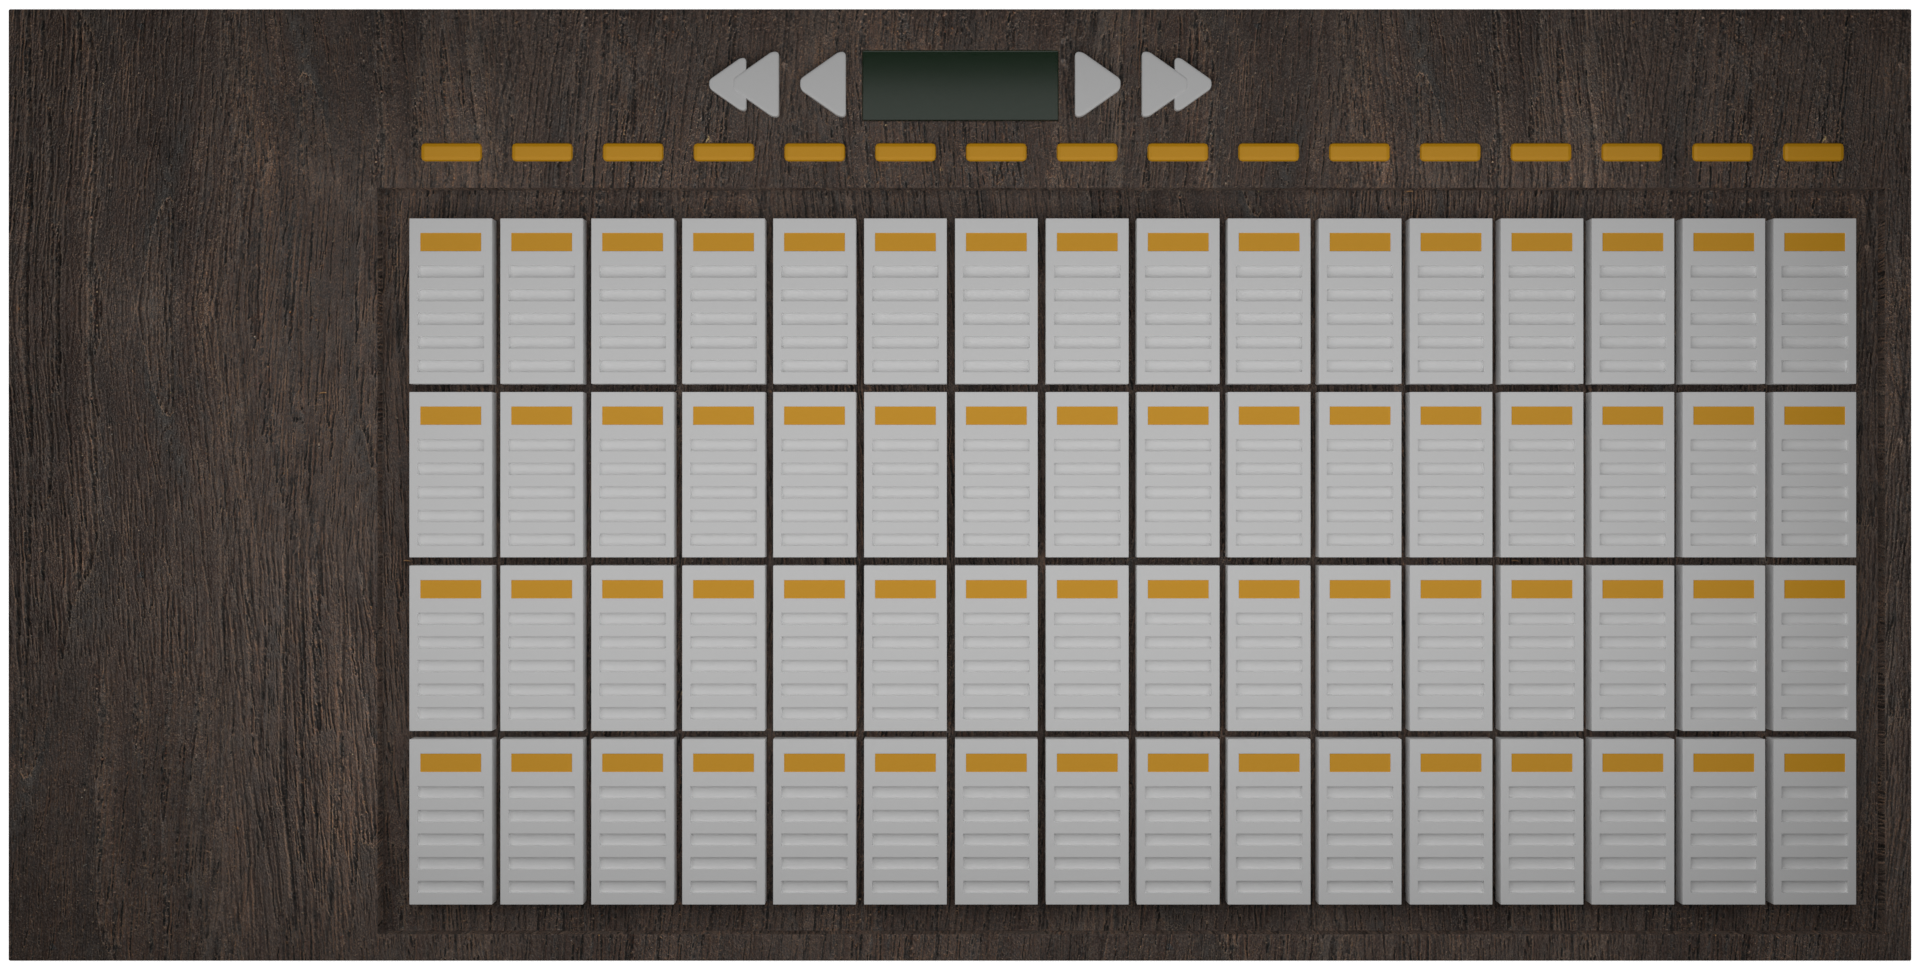
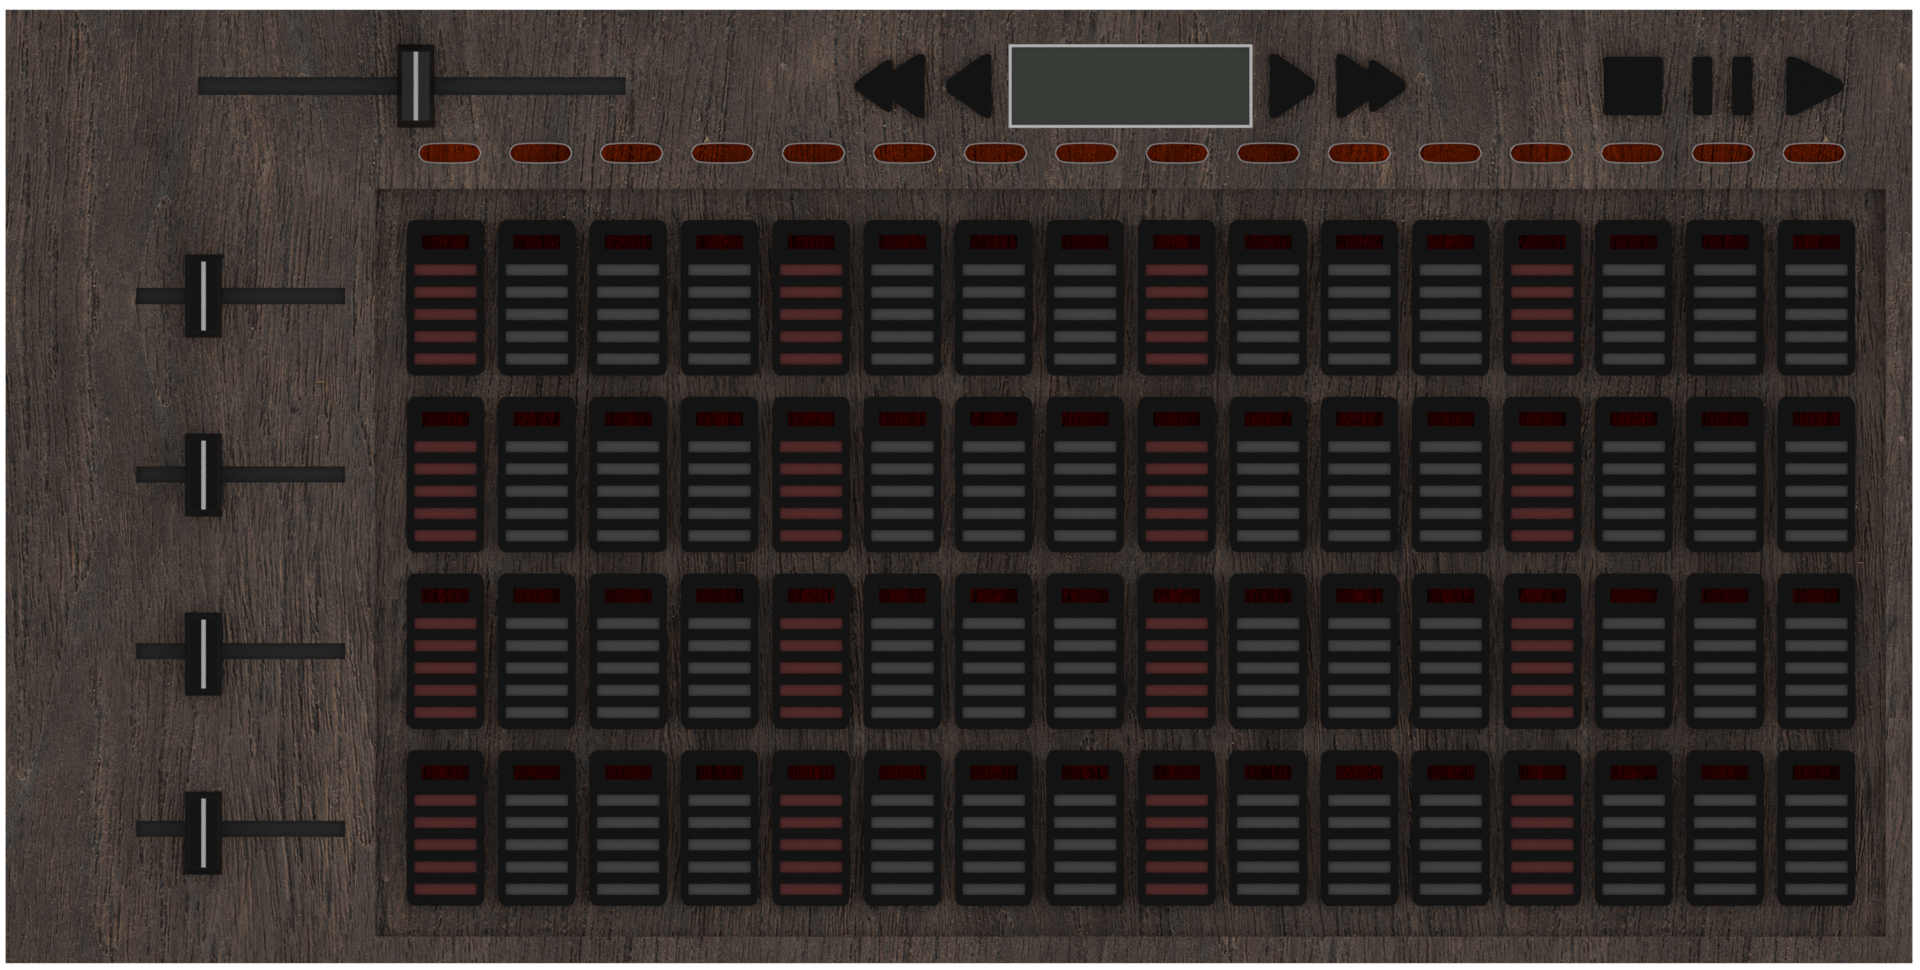
WIP: Created a better overview, created several button images, created utils.py.

diff --git a/main.py b/main.py
@@ -25,6 +25,8 @@ class BeatMachine:
                             [0, 0, 0, 0, 0, 0, 0, 0, 0, 0, 0, 0, 0, 0, 0, 0,],
                             [0, 0, 0, 0, 0, 0, 0, 0, 0, 0, 0, 0, 0, 0, 0, 0,],]
         
+        self.assets = {}
+        
     def calculate_beat_times(self):
         return 60 / (self.bpm * 4)
     
@@ -72,8 +74,8 @@ class BeatMachine:
             if self.play:
                 self.play_instruments()
 
-            self.shift = self.sum_beat_time()
-            self.slot_shifter()
+                self.shift = self.sum_beat_time()
+                self.slot_shifter()
 
             
             

diff --git a/utils.py b/utils.py
@@ -1,0 +1,14 @@
+import os
+import pygame as pg
+
+
+def load_image():
+    pass
+
+
+def scale_image():
+    pass
+
+
+class Button:
+    pass
